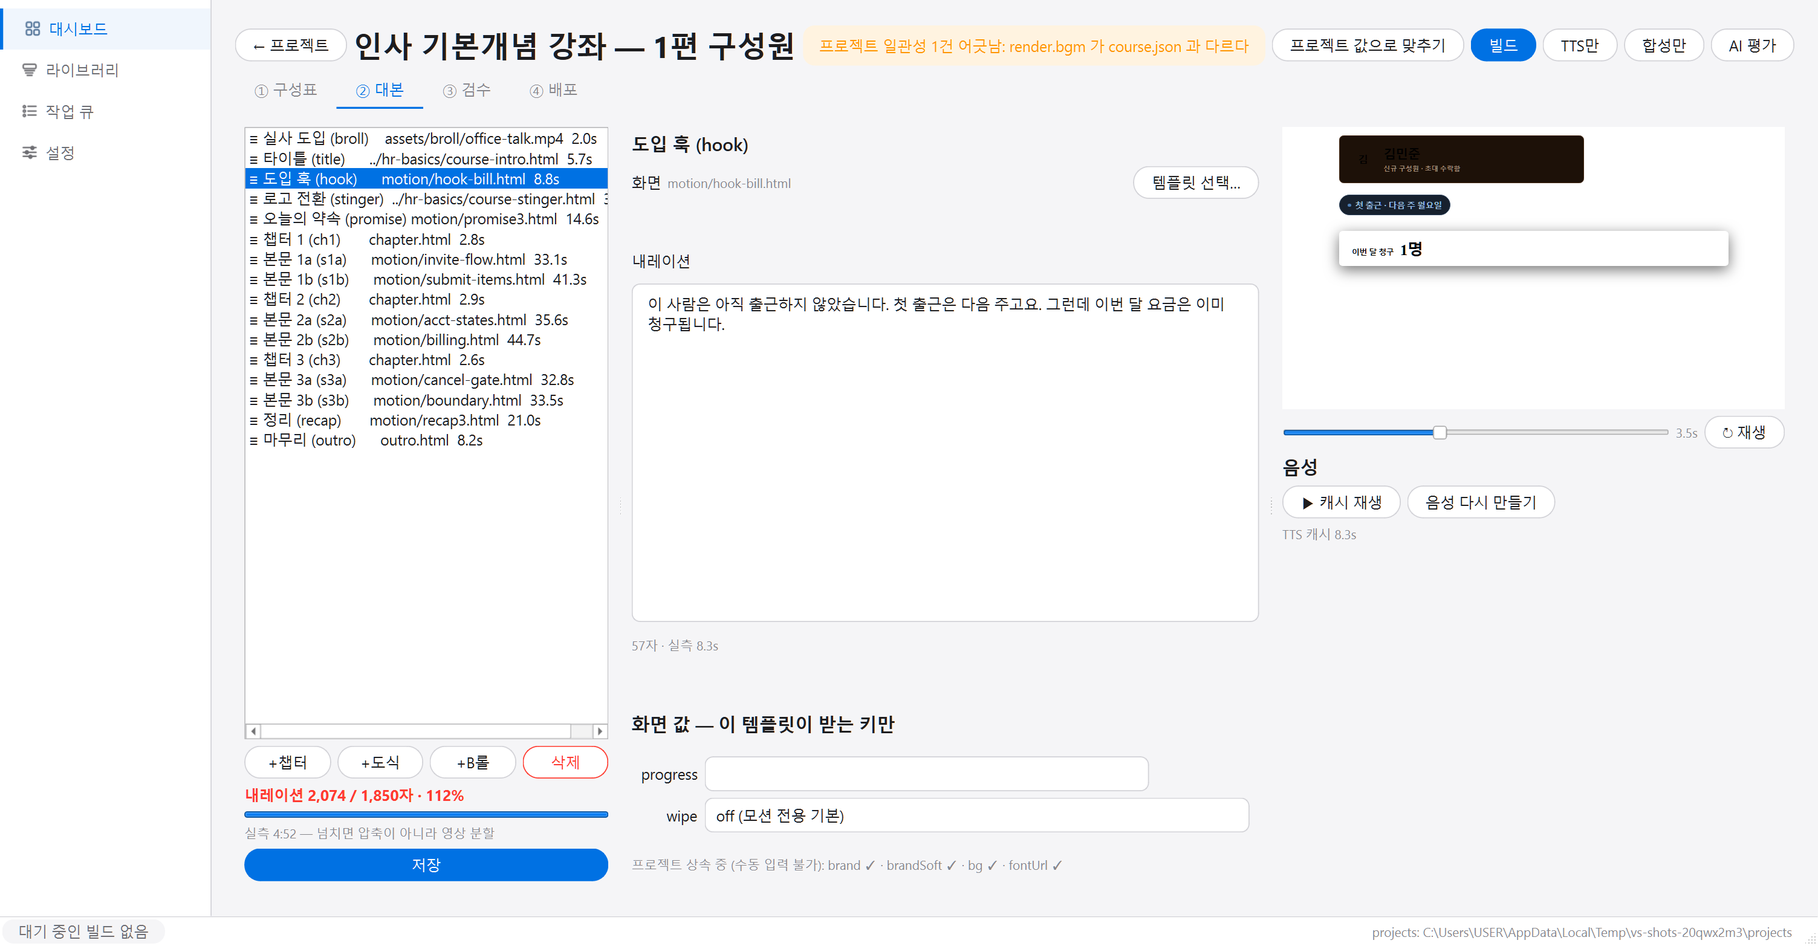
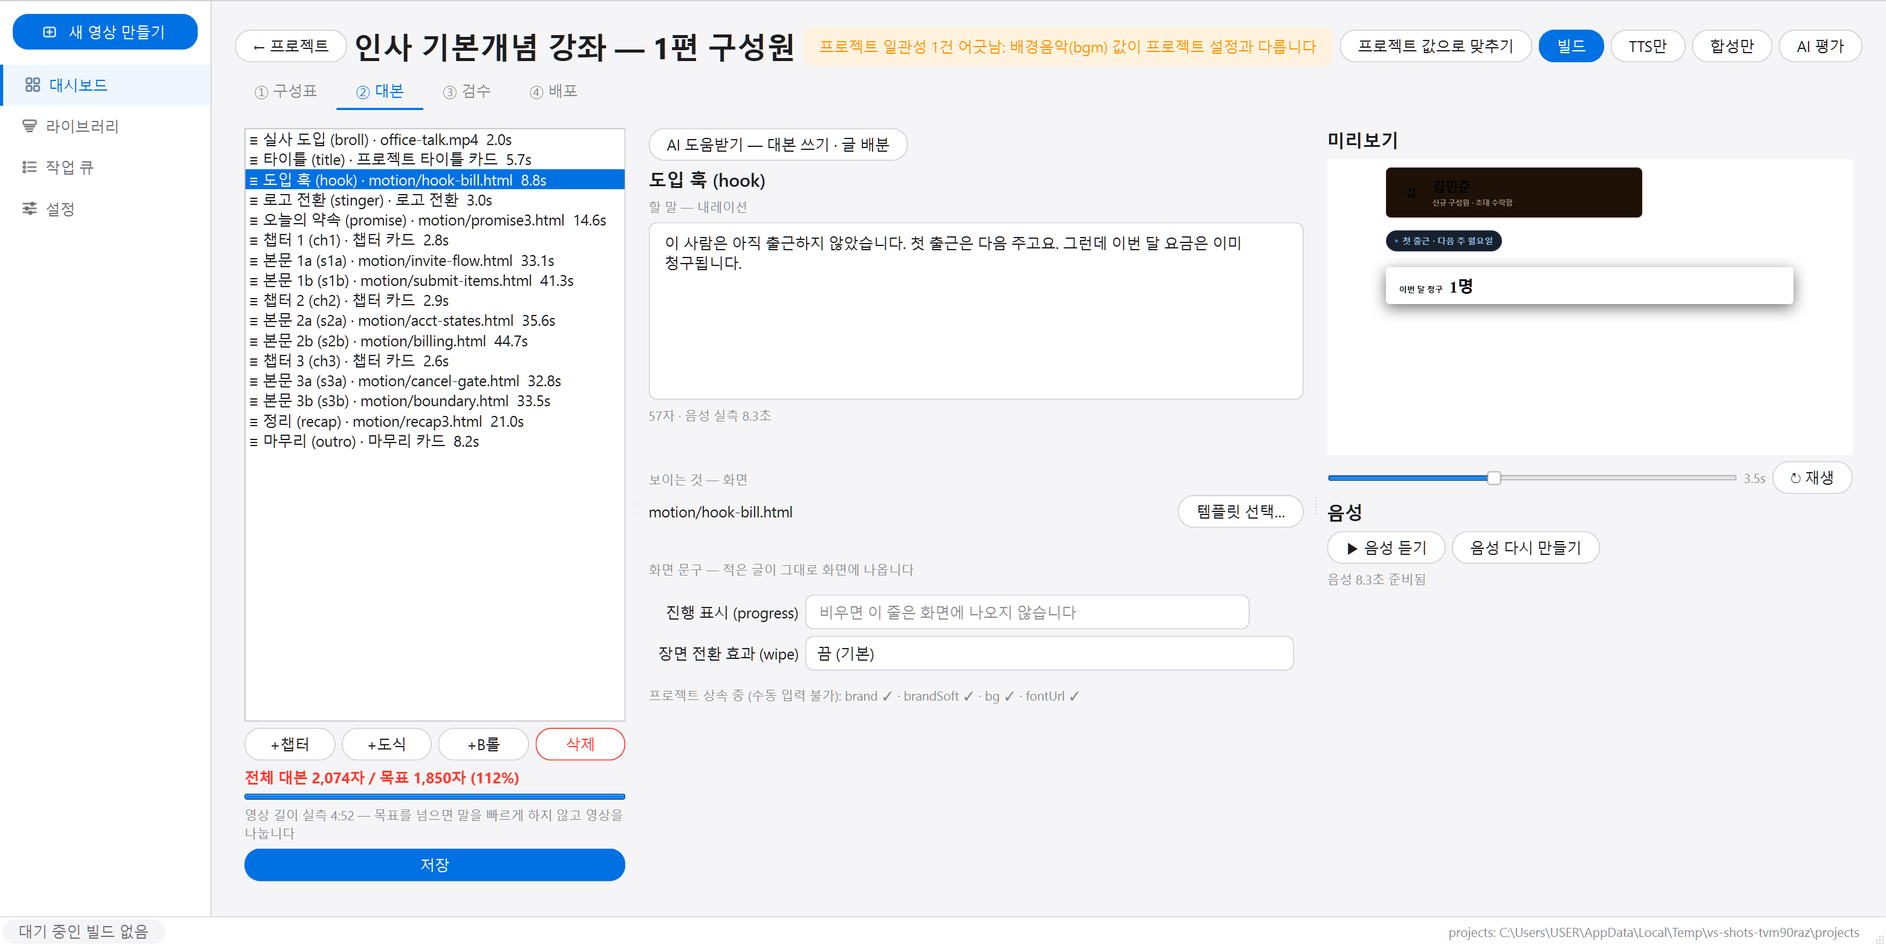
② 대본 화면 재구성 — 두 묶음으로 (지적 13)
"대본 화면이 너무 헛갈린다"는 지적. 원인은 화면 관련이 두 토막(템플릿 선택
행과 값 폼이 내레이션을 사이에 두고 갈라짐)인 구조였고, 그 위에 개발자
용어·템플릿 내부 순서의 필드·암호 같은 예산 문구가 얹혀 있었다.

- 중앙 열: "할 말 — 내레이션"(맨 위·본업) → "보이는 것 — 화면"(고르기+문구
  폼 한 자리). 남는 세로 공간은 맨 아래로 — 내레이션 칸이 최대 높이에
  걸리면 남는 공간이 묶음 사이에 끼어 두 동강 나 보인다(캡처로 발견, 08 §4)
- 용어: "화면 값 — 이 템플릿이 받는 키만" → "화면 문구 — 적은 글이 그대로
  화면에 나옵니다" · 파일명 대신 표시명(타이틀 카드·숫자 카드…) · wipe 콤보
  "끔 (기본)"/"켬 — 다음 장면이 밝을 때 흰 면으로 덮으며 전환"
- 문구 폼: PARAM_ORDER 뜻 순서(제목→부제→…) — 제목이 맨 아래로 밀리지
  않는다. 빈 칸 placeholder 가 실동작을 말한다("비우면 이 줄은 화면에
  나오지 않습니다" — _params.js 가 빈 값이면 그 줄을 지운다)
- 예산: "전체 대본 N자 / 목표 M자 (P%)" · "영상 길이 실측 M:SS — 목표를
  넘으면 말을 빠르게 하지 않고 영상을 나눕니다"
- kinds: 숫자/사진 카드 표시명·screen_name()·숫자·단위·행동 유도 라벨

실측: 캡처 06·07(도식/B롤 클립) 육안 확인 · pytest 183건. 설계서 동기화:
03_screens ⑤ 다이어그램·10_ux-plan 지적 13.

diff --git a/app/pages/clip_editor.py b/app/pages/clip_editor.py
@@ -38,6 +38,10 @@ SKELETON = ["broll", "title", "hook", "stinger", "promise"]
 AUTO_KEYS = ("brand", "brandSoft", "bg", "fg", "font", "fontUrl",
              "wipeAt", "wipeColor")
 TIME_KEY_RE = re.compile(r"^t\d|^tterm|At$|Time$", re.I)
+# 화면 문구 폼의 표시 순서 — 제목이 맨 위 (10 지적 11: 템플릿 내부 순서 그대로면
+# 제목이 맨 아래로 밀린다). 목록에 없는 키는 템플릿 순서대로 뒤에 붙는다.
+PARAM_ORDER = ("title", "subtitle", "kicker", "num", "value", "unit",
+               "text", "caption", "label", "src", "progress")
 
 
 def clip_seconds(clip: dict, audio_cache: dict) -> tuple[float, bool]:
@@ -266,14 +270,48 @@ class ClipEditorTab(QWidget):
         self.cur_id.setObjectName("sectionTitle")
         lay.addWidget(self.cur_id)
 
+        # ── 묶음 1: 할 말 — 대본 화면의 본업이라 내레이션이 맨 위다 (10 지적 11).
+        # 예전에는 화면 선택(위)과 화면 문구 폼(아래)이 내레이션을 사이에 두고
+        # 갈라져 있어 "무엇이 어디 것인지" 읽히지 않았다.
+        narr_head = QLabel("할 말 — 내레이션")
+        narr_head.setObjectName("caption")
+        lay.addWidget(narr_head)
+
+        self.narration = QPlainTextEdit()
+        self.narration.setMinimumHeight(96)
+        self.narration.setMaximumHeight(320)
+        self.narration.textChanged.connect(self._on_narration)
+        self.narration.selectionChanged.connect(self._on_narr_select)
+        lay.addWidget(self.narration, 1)   # 남는 높이는 글 쓰는 칸이 먹는다 (09 G3)
+        self.narr_info = QLabel("")
+        self.narr_info.setObjectName("caption")
+        lay.addWidget(self.narr_info)
+        # 발화시각 계산기 — 구절 선택 → 글자수÷페이스 → tN 원클릭 기입 (03 ⑤)
+        self.spoken_row = QHBoxLayout()
+        self.spoken_label = QLabel("")
+        self.spoken_label.setObjectName("caption")
+        self.spoken_row.addWidget(self.spoken_label)
+        self.spoken_row.addStretch(1)
+        lay.addLayout(self.spoken_row)
+
+        # ── 묶음 2: 보이는 것 — 화면 고르기와 화면 문구를 한 자리에
+        self.params_head = QHBoxLayout()
+        screen_head = QLabel("보이는 것 — 화면")
+        screen_head.setObjectName("caption")
+        self.extract_btn = QPushButton("B롤 프레임을 이미지(src)로 가져오기")
+        self.extract_btn.clicked.connect(self._extract_frame)
+        self.params_head.addWidget(screen_head)
+        self.params_head.addStretch(1)
+        self.params_head.addWidget(self.extract_btn)
+        lay.addSpacing(theme.GAP_STACK)
+        lay.addLayout(self.params_head)
+
         pick_row = QHBoxLayout()
-        self.screen_label = QLabel("—")
-        self.screen_label.setObjectName("caption")
+        self.screen_label = QLabel("—")   # 표시명이 본문이다 — 파일명은 괄호 보조 (10 #8)
         self.tpl_btn = QPushButton("템플릿 선택…")
         self.tpl_btn.clicked.connect(self._pick_template)
         self.broll_btn = QPushButton("B롤 선택…")
         self.broll_btn.clicked.connect(self._pick_broll)
-        pick_row.addWidget(QLabel("화면"))
         pick_row.addWidget(self.screen_label, 1)
         pick_row.addWidget(self.tpl_btn)
         pick_row.addWidget(self.broll_btn)
@@ -305,34 +343,9 @@ class ClipEditorTab(QWidget):
         self.broll_check.setWordWrap(True)
         lay.addWidget(self.broll_check)
 
-        lay.addWidget(QLabel("내레이션"))
-        self.narration = QPlainTextEdit()
-        self.narration.setMinimumHeight(96)
-        self.narration.setMaximumHeight(320)
-        self.narration.textChanged.connect(self._on_narration)
-        self.narration.selectionChanged.connect(self._on_narr_select)
-        lay.addWidget(self.narration, 1)   # 남는 높이는 글 쓰는 칸이 먹는다 (09 G3)
-        self.narr_info = QLabel("")
-        self.narr_info.setObjectName("caption")
-        lay.addWidget(self.narr_info)
-        # 발화시각 계산기 — 구절 선택 → 글자수÷페이스 → tN 원클릭 기입 (03 ⑤)
-        self.spoken_row = QHBoxLayout()
-        self.spoken_label = QLabel("")
-        self.spoken_label.setObjectName("caption")
-        self.spoken_row.addWidget(self.spoken_label)
-        self.spoken_row.addStretch(1)
-        lay.addLayout(self.spoken_row)
-
-        self.params_head = QHBoxLayout()
-        self.params_title = QLabel("")
-        self.params_title.setObjectName("sectionTitle")
-        self.extract_btn = QPushButton("B롤 프레임을 이미지(src)로 가져오기")
-        self.extract_btn.clicked.connect(self._extract_frame)
-        self.params_head.addWidget(self.params_title)
-        self.params_head.addStretch(1)
-        self.params_head.addWidget(self.extract_btn)
-        lay.addLayout(self.params_head)
-
+        self.params_title = QLabel("")   # 폼 안내 — 폼이 있을 때만 렌더가 채운다
+        self.params_title.setObjectName("caption")
+        lay.addWidget(self.params_title)
         self.params_form_holder = QWidget()
         self.params_form = QFormLayout(self.params_form_holder)
         self.params_form.setLabelAlignment(Qt.AlignRight)
@@ -344,6 +357,9 @@ class ClipEditorTab(QWidget):
         lay.addWidget(self.inherit_label)
         self.unknown_box = QVBoxLayout()
         lay.addLayout(self.unknown_box)
+        # 남는 세로 공간은 맨 아래로 — 내레이션 칸이 최대 높이에 걸리면 남는 공간이
+        # 두 묶음 사이에 끼어 화면이 두 동강 나 보인다 (08 §4-1·6)
+        lay.addStretch(1)
         return scroll
 
     # ══ 우: 프리뷰 (D10 — 같은 문서·같은 시킹이라 프리뷰가 곧 실물) ═══════════
@@ -353,6 +369,9 @@ class ClipEditorTab(QWidget):
         # QApplication 이전 임포트·GPU 폴백은 app.bootstrap 이 담당 (호출자가 임포트했어야 함)
         from PySide6.QtWebEngineWidgets import QWebEngineView
 
+        preview_head = QLabel("미리보기")
+        preview_head.setObjectName("sectionTitle")
+        lay.addWidget(preview_head)
         self.preview = QWebEngineView()
         self.preview.setMinimumHeight(240)
         w.preview = self.preview        # 폭이 바뀌면 16:9 로 다시 잡는다
@@ -380,7 +399,7 @@ class ClipEditorTab(QWidget):
         self.broll_video.hide()
         self.broll_player = QMediaPlayer()
         self.broll_player.setVideoOutput(self.broll_video)
-        lay.insertWidget(0, self.broll_video)
+        lay.insertWidget(1, self.broll_video)   # [미리보기] 헤더 아래, 템플릿 프리뷰 자리
         self.broll_play_btn = QPushButton("▶ B롤 재생")
         self.broll_play_btn.clicked.connect(self._toggle_broll)
         self.broll_player.playbackStateChanged.connect(self._sync_broll_btn)
@@ -655,10 +674,12 @@ class ClipEditorTab(QWidget):
         self.clip_list.clear()
         for c in self.clips:
             secs, measured = clip_seconds(c, self.audio_cache)
-            # 역할을 한국어로 먼저 — id 는 괄호 보조 (10 #8)
+            # 역할을 한국어로 먼저 — id 는 괄호 보조 (10 #8). 파일명 대신 표시명 —
+            # "intro.html" 이 아니라 "타이틀 카드"가 읽혀야 한다 (10 지적 11)
             role = kinds.role_label(c.get("id"))
-            label = f"{role} ({c.get('id', '?')})"
-            item = QListWidgetItem(f"≡ {label:<16} {c.get('file') or c.get('video') or '—'}"
+            screen = (kinds.screen_name(c["file"]) if c.get("file")
+                      else str(c.get("video") or "—").split("/")[-1])
+            item = QListWidgetItem(f"≡ {role} ({c.get('id', '?')}) · {screen}"
                                    f"  {secs:.1f}s{'' if measured else '?'}")
             item.setToolTip(c.get("narration", ""))
             self.clip_list.addItem(item)
@@ -676,14 +697,15 @@ class ClipEditorTab(QWidget):
         secs = sum(clip_seconds(c, self.audio_cache)[0] for c in self.clips)
         measured_all = all(clip_seconds(c, self.audio_cache)[1] for c in self.clips)
         pct = round(total / self._budget * 100) if self._budget else 0
-        self.budget_label.setText(f"내레이션 {total:,} / {self._budget:,}자 · {pct}%")
+        self.budget_label.setText(f"전체 대본 {total:,}자 / 목표 {self._budget:,}자 ({pct}%)")
         self.budget_bar.setValue(min(100, pct))
         over = pct > 100
         self.budget_label.setStyleSheet(
             f"color: {theme.DANGER}; font-weight: 700;" if over else "")
-        note = f"{'실측' if measured_all else '추정'} {int(secs // 60)}:{int(secs % 60):02d}"
+        note = (f"영상 길이 {'실측' if measured_all else '추정'} "
+                f"{int(secs // 60)}:{int(secs % 60):02d}")
         if over:
-            note += " — 넘치면 압축이 아니라 영상 분할"
+            note += " — 목표를 넘으면 말을 빠르게 하지 않고 영상을 나눕니다"
         self.budget_note.setText(note)
 
     def _render_skeleton_warn(self) -> None:
@@ -772,7 +794,9 @@ class ClipEditorTab(QWidget):
         self._loading = True
         self.cur_id.setText(f'{kinds.role_label(c.get("id"))} ({c.get("id", "?")})')
         is_broll = "video" in c
-        self.screen_label.setText(c.get("file") or c.get("video") or "(미선택)")
+        self.screen_label.setText(
+            kinds.screen_label(c["file"]) if c.get("file")
+            else c.get("video") or "(미선택 — 오른쪽 버튼으로 고르세요)")
         self.tpl_btn.setVisible(not is_broll)
         self.broll_btn.setVisible(is_broll)
         self.broll_row.setVisible(is_broll)
@@ -798,23 +822,35 @@ class ClipEditorTab(QWidget):
         accepted = self._accepted_keys()
         has_form = bool(c and c.get("file") and accepted)
         self.params_form_holder.setVisible(has_form)
-        self.params_title.setText("화면 값 — 이 템플릿이 받는 키만" if has_form else "")
+        self.params_title.setText(
+            "화면 문구 — 적은 글이 그대로 화면에 나옵니다" if has_form else "")
         self.extract_btn.setVisible(
             has_form and "src" in accepted
             and any(x.get("video") for x in self.clips))
         if not has_form:
             self.inherit_label.setText("")
             return
-        editable = [k for k in accepted if k not in AUTO_KEYS and k != "wipe"]
+        # 제목이 맨 아래로 밀리지 않게 뜻 순서로 정렬 — 템플릿 내부 순서는 구현이다
+        # (10 지적 11). 목록에 없는 키(t1 등)는 템플릿 순서 그대로 뒤에 붙는다.
+        editable = sorted(
+            (k for k in accepted if k not in AUTO_KEYS and k != "wipe"),
+            key=lambda k: PARAM_ORDER.index(k) if k in PARAM_ORDER else len(PARAM_ORDER))
         params = c.get("params") or {}
         for k in editable:  # ① 받는 키만 폼 생성 — 자유 키 입력 자체가 없음
             field = QLineEdit(str(params.get(k, "")))
             field.setMaximumWidth(420)
+            # 빈 칸이 무슨 뜻인지 칸이 스스로 말한다 — _params.js 는 빈 값이면 그 줄을 지운다
+            if k == "src":
+                field.setPlaceholderText("이미지 경로 — 위의 [B롤 프레임 가져오기]가 채워 줍니다")
+            elif TIME_KEY_RE.match(k):
+                field.setPlaceholderText("등장 시각(초) — 내레이션 구절을 드래그하면 계산해 줍니다")
+            else:
+                field.setPlaceholderText("비우면 이 줄은 화면에 나오지 않습니다")
             field.textEdited.connect(lambda v, key=k: self._set_param(key, v))
             self.params_form.addRow(kinds.param_label(k), field)
         wipe = QComboBox()
-        wipe.addItem("off (모션 전용 기본)", "off")
-        wipe.addItem("on (밝은 앱 화면 전환 시)", "on")
+        wipe.addItem("끔 (기본)", "off")
+        wipe.addItem("켬 — 다음 장면이 밝을 때 흰 면으로 덮으며 전환", "on")
         wipe.setCurrentIndex(1 if params.get("wipe") == "on" else 0)
         wipe.currentIndexChanged.connect(
             lambda i, w=wipe: self._set_param("wipe", w.currentData()))
@@ -870,7 +906,8 @@ class ClipEditorTab(QWidget):
         n = len(c.get("narration", ""))
         measured = self.audio_cache.get(c.get("id"))
         self.narr_info.setText(
-            f"{n}자 · " + (f"실측 {measured:.1f}s" if measured else f"추정 {n / PACE:.1f}s"))
+            f"{n}자 · " + (f"음성 실측 {measured:.1f}초" if measured
+                           else f"음성 추정 {n / PACE:.1f}초"))
 
     def _on_narr_select(self) -> None:
         cur = self.narration.textCursor()

diff --git a/core/kinds.py b/core/kinds.py
@@ -143,8 +143,9 @@ def role_label(clip_id: str | None) -> str:
 # 키 이름은 엔진 계약이라 못 바꾼다 — 화면이 뜻을 함께 말한다. 모르는 키는 그대로.
 PARAM_LABELS = {
     "title": "제목", "subtitle": "부제", "kicker": "상단 소제목", "num": "번호",
-    "src": "이미지", "progress": "진행 표시", "shade": "어둡기", "wipe": "와이프 전환",
+    "src": "이미지", "progress": "진행 표시", "shade": "어둡기", "wipe": "장면 전환 효과",
     "caption": "캡션", "label": "라벨", "text": "본문", "videoStart": "시작 지점(초)",
+    "value": "숫자", "unit": "단위", "cta": "행동 유도 문구", "url": "표시 주소",
 }
 
 
@@ -174,6 +175,7 @@ def render_label(key: str) -> str:
 TEMPLATE_LABELS = {
     "intro.html": "타이틀 카드", "chapter.html": "챕터 카드", "outro.html": "마무리 카드",
     "course-intro.html": "프로젝트 타이틀 카드", "course-stinger.html": "로고 전환",
+    "stat.html": "숫자 카드", "photo.html": "사진 카드",
 }
 
 
@@ -183,6 +185,15 @@ def screen_label(text: str | None) -> str:
     for fname, label in TEMPLATE_LABELS.items():
         if t == fname or t.endswith("/" + fname):
             return f"{label} ({fname})"
+    return t
+
+
+def screen_name(text: str | None) -> str:
+    """클립 리스트처럼 좁은 곳 — 표시명만, 모르는 파일명은 그대로."""
+    t = str(text or "").strip()
+    for fname, label in TEMPLATE_LABELS.items():
+        if t == fname or t.endswith("/" + fname):
+            return label
     return t
 
 

diff --git a/docs/design/03_screens.md b/docs/design/03_screens.md
@@ -130,21 +130,28 @@ MainWindow
 **목적**: scenes.json 의 `motion.clips[]` 를 구조화 편집. 경로·params·분량 결함을 입력 시점에 차단.
 
 ```
-┌ 클립 리스트 ──┬─ 클립 편집 ────────────────────────┬─ 프리뷰 ──────┐
-│ ≡ broll  2.0s │ id [hook]        내레이션 57자/8.9s │               │
-│ ≡ title  4.0s │ ┌ 화면 ─────────────────────────┐  │  [iframe:     │
-│ ≡ hook   8.9s │ │(•)도식 [hook-bill.html ▾][🔍] │  │   hook-bill   │
-│ ≡ stinger3.0s │ │( )B롤  [피커…]  ( )없음        │  │   params 주입  │
-│ ≡ promise ... │ └───────────────────────────────┘  │   재생/스크럽] │
-│ ≡ ch1    ... │ 내레이션                            │               │
-│ ≡ s1a  ⚠253 │ [이 사람은 아직 출근하지 않았습…]     │  ▶ 음성 듣기   │
-│   …          │ ── params (템플릿이 받는 키만) ──    │  (TTS 캐시    │
-│ + 클립 추가   │ t1 [4.5] t2 [7.2]  [발화시각 계산]  │   있으면)     │
-│──────────────│ shade [0.35] wipe [off ▾]          │               │
-│ 합계 2,074자  │ brand·bg·font ← 강좌 자동 주입 ✓    │               │
-│ ⚠ 예산 +12%  │ 고급 ▸ (duration·before·videoStart) │               │
+┌ 클립 리스트 ──┬─ 클립 편집 ─────────────────────────┬─ 프리뷰 ──────┐
+│ ≡ 도입 훅     │ 도입 훅 (hook)                      │ 미리보기       │
+│  (hook) ·     │ 할 말 — 내레이션          ← 묶음 1  │  [iframe:     │
+│  hook-bill…   │ [이 사람은 아직 출근하지 않았습…]    │   hook-bill   │
+│  8.8s        │ 57자 · 음성 실측 8.3초    [발화시각] │   params 주입  │
+│ ≡ 타이틀     │ 보이는 것 — 화면 [프레임 가져오기]   │   재생/스크럽] │
+│  (title) ·    │ 타이틀 카드 (intro.html) [템플릿…]  │               │
+│  타이틀 카드  │  (B롤이면: 시작 지점·어둡기·길이검사)│ 음성          │
+│  5.7s  …     │ 화면 문구 — 적은 글이 그대로 나온다  │  ▶ 음성 듣기   │
+│ +챕터·도식·B롤│ 제목 [ ] 부제 [ ] t1 [4.5] ← 묶음 2 │  [다시 만들기] │
+│──────────────│ 장면 전환 효과 [끔 ▾]               │  (TTS 캐시    │
+│ 전체 2,074자  │ 프로젝트 상속 중: brand·bg·font ✓   │   있으면)     │
+│ /목표 1,850자 │ (남는 공간은 맨 아래 — 묶음 사이에   │               │
+│ [저장]        │  끼면 두 동강 나 보인다, 08 §4)      │               │
 └──────────────┴────────────────────────────────────┴───────────────┘
 ```
+
+중앙 열은 두 묶음이다 (10 지적 13 — "무엇이 어디 것인지"가 읽혀야 한다):
+**할 말(내레이션이 맨 위 — 대본 화면의 본업)** → **보이는 것(화면 고르기 + 화면 문구
+폼을 한 자리에)**. 문구 폼은 `PARAM_ORDER` 뜻 순서(제목→부제→…)로 정렬하고, 빈 칸은
+placeholder 가 실동작("비우면 이 줄은 화면에 나오지 않습니다")을 말한다. 파일명은
+`kinds.screen_label` 표시명(타이틀 카드·숫자 카드…)을 앞세운다.
 
 **클립 리스트 (좌)**
 - 드래그 정렬 = 배열 순서. 골격 위치 규약(broll→title→hook→stinger→promise) 위반 시 경고.

diff --git a/docs/design/10_ux-plan.md b/docs/design/10_ux-plan.md
@@ -110,6 +110,22 @@
   - 실측: 내비 4항목이 각자 제 화면에 도착 · 버튼 1클릭 = 위저드 1회 · 파고든 뒤
     '대시보드' 재클릭 복귀 정상 · pytest 147건
 
+**추가 지적 13 (2026-08-23) — ② 대본 화면이 헛갈린다 ✅ 구현**
+
+> "대본 화면이 너무 헛갈린다. 좀 깔끔하고 이해하기 쉬운 화면으로 변경이 가능한가?"
+
+진단 4건과 결정 (3열 구도 자체는 유지 — 위 조사 표: "문제는 용어다"에 구조 1건 추가):
+
+| # | 헛갈림의 원인 | 결정 |
+|---|---|---|
+| a | **화면 관련이 두 토막** — 템플릿 선택 행(위)과 "화면 값" 폼(아래)이 내레이션을 사이에 두고 갈라짐 | 중앙 열을 두 묶음으로: **"할 말 — 내레이션"**(맨 위·본업) → **"보이는 것 — 화면"**(선택+B롤 행+문구 폼 한 자리). 남는 세로 공간은 맨 아래로(끼면 두 동강 나 보인다 — 08 §4) |
+| b | 개발자 용어 — "화면 값 — 이 템플릿이 받는 키만"(방어 장치 설명), `intro.html` 노출, "off (모션 전용 기본)" | "화면 문구 — 적은 글이 그대로 화면에 나옵니다" · 리스트/화면 행에 `kinds.screen_label` 표시명(타이틀 카드·숫자 카드…) · wipe 라벨 "장면 전환 효과", 콤보 "끔 (기본)"/"켬 — 다음 장면이 밝을 때 흰 면으로 덮으며 전환" |
+| c | 필드 순서가 템플릿 내부 순서 — 제목이 맨 아래 | `PARAM_ORDER` 로 뜻 순서 고정(제목→부제→…) + 빈 칸 placeholder("비우면 이 줄은 화면에 나오지 않습니다" — `_params.js` 의 실동작) |
+| d | 예산 문구가 암호 — "내레이션 199 / 160자 · 124%"·"넘치면 압축이 아니라 영상 분할" | "전체 대본 N자 / 목표 M자 (P%)" · "영상 길이 실측 M:SS — 목표를 넘으면 말을 빠르게 하지 않고 영상을 나눕니다" |
+
+- 부수: 프리뷰 열에 "미리보기" 제목(음성과 대칭) · 내레이션 라벨 "N자 · 음성 실측 N초"
+- 실측: 캡처 06·07 — 두 묶음 위로 압축·placeholder·표시명·B롤 검사 초록 ✓ · pytest 183건
+
 **제안 12 (2026-08-23, 루프 43회차) — 라이브러리 소재 삭제 (미구현·사용자 결정 대기)**
 - 받은 소재를 지울 길이 화면에 없다 (P7·P21). 파일 삭제 + 출처 대장(CATALOG.md) 행
   정리 + 대본에서 참조 중인 소재 보호(사용 중이면 경고)까지 필요해 루프의 "다듬기"
